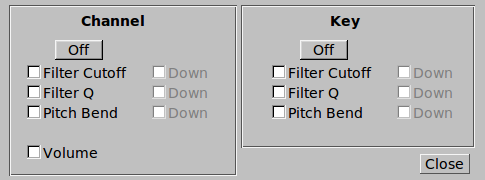
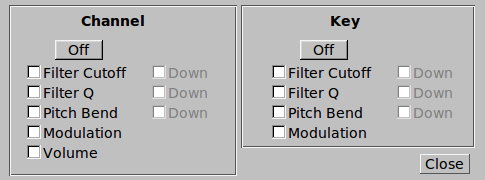
Update aftertouch screenshot/description

Changed region(s): [[0.0309, 0.6944, 0.2474, 0.7778], [0.5567, 0.6944, 0.7732, 0.7778]]

diff --git a/sources/index.html b/sources/index.html
@@ -62,7 +62,7 @@
   </li>
   <li>
     Channel/Key aftertouch support (experimental/developing)
-    <p>control filter q/cutoff, pitch bend, and channel volume with aftertouch</p>
+    <p>control filter q/cutoff, pitch bend, modulation and channel volume with aftertouch</p>
   </li>
   <li>Solo
     <p>step through up to 16 sounds seamlessly while playing in real time (including
